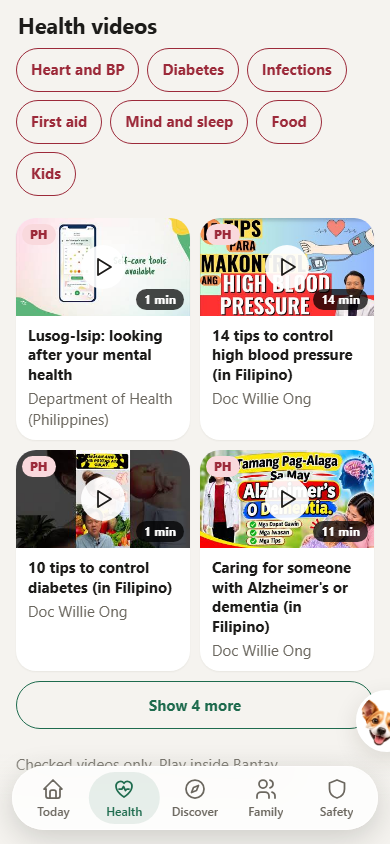
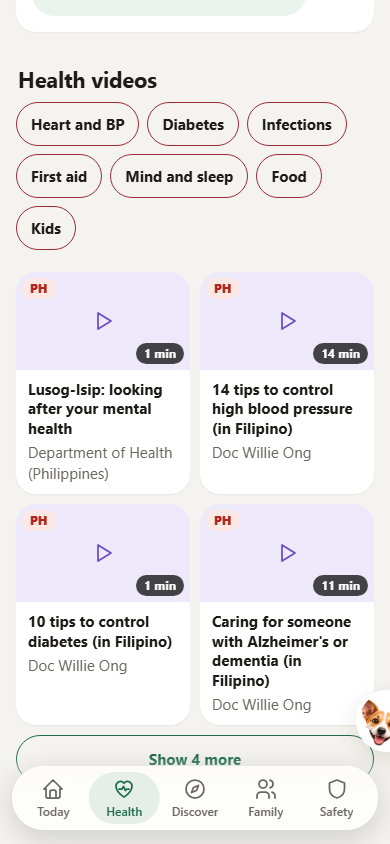
S25 lane B fix round 1: chip and PH contrast in light and dark (tested), For you More scrolls to Health videos, health-only clips kept out of Discover, WHO and Filipino labels, Browse subtitle contrast, honest chip test

diff --git a/src/features/health/health.css b/src/features/health/health.css
@@ -273,7 +273,8 @@
 .card.hb[data-tint="green"] { --tint-fill: var(--tint-green); --tint-ink: var(--tint-green-ink); }
 .hb-t { display: grid; gap: 2px; }
 .hb-t b { font-size: 17px; }
-.hb-s { font-size: 13px; line-height: 1.3; opacity: .9; }
+.hb-s { font-size: 13px; line-height: 1.3; }
+.card.hb .hb-s { color: var(--tint-ink, var(--ink)); } /* tint pair tested at 4.5:1 in light and dark; no opacity dimming */
 .hb-bars rect { fill: var(--tint-ink); opacity: .45; }
 .hb-bars rect[data-hot] { opacity: 1; }
 .hb-pills { display: flex; flex-wrap: wrap; gap: 6px; }
@@ -405,8 +406,8 @@
 
 /* S25 Health videos: chips that wrap (no side scroll), then a MoreGrid of cards */
 .hv-chips { display: flex; flex-wrap: wrap; gap: 8px; margin: 0 0 12px; }
-.hv-chip { min-height: 44px; padding: 0 14px; border: 1.5px solid var(--tab-accent, #9C2A3A); border-radius: 999px; background: transparent; color: var(--tab-accent, #9C2A3A); font: inherit; font-size: 15px; font-weight: 700; cursor: pointer; }
-.hv-chip[aria-pressed="true"] { background: var(--tab-accent, #9C2A3A); color: #fff; }
+.hv-chip { min-height: 44px; padding: 0 14px; border: 1.5px solid var(--tab-accent, #9C2A3A); border-radius: 999px; background: transparent; color: var(--ink); font: inherit; font-size: 15px; font-weight: 700; cursor: pointer; }
+.hv-chip[aria-pressed="true"] { background: var(--tint-red); color: var(--tint-red-ink); } /* a tested tint pair: 4.5:1 in light and dark */
 .hv-chip:focus-visible, .hv-vbtn:focus-visible { outline: 2px solid var(--act); outline-offset: 2px; }
 .card.hv-vc { display: flex; flex-direction: column; padding: 0 0 10px; overflow: hidden; color: var(--ink); }
 .more-grid > .card.hv-vc[data-open] { grid-column: 1 / -1; }
@@ -417,6 +418,6 @@
 .hv-play { position: relative; display: grid; place-items: center; width: 44px; height: 44px; border-radius: 50%; background: rgba(255, 255, 255, .92); color: #1C1B19; }
 .hv-still[data-still="off"] .hv-play { background: none; color: inherit; }
 .hv-len { position: absolute; right: 6px; bottom: 6px; padding: 2px 8px; border-radius: 999px; background: rgba(0, 0, 0, .72); color: #fff; font-size: 12px; font-weight: 700; font-variant-numeric: tabular-nums; }
-.hv-ph { position: absolute; left: 6px; top: 6px; padding: 2px 8px; border-radius: 999px; background: var(--tab-accent-soft, #F9D9DD); color: var(--tab-accent, #9C2A3A); font-size: 12px; font-weight: 800; }
+.hv-ph { position: absolute; left: 6px; top: 6px; padding: 2px 8px; border-radius: 999px; background: var(--tint-red); color: var(--tint-red-ink); font-size: 12px; font-weight: 800; }
 .hv-vbtn b { font-size: 15px; line-height: 1.3; overflow-wrap: anywhere; }
 .hv-open { padding: 0 10px; }

diff --git a/src/features/health/ForYou.tsx b/src/features/health/ForYou.tsx
@@ -6,7 +6,8 @@ import type { Attention } from './attention'
 import { NudgeRow } from './GlanceGrid'
 import { WATCH_PICK } from '../discover/watch/Screen'
 import { articleHref } from './library/medline'
-import { playable, VIDEOS, type Video } from './library/videosLogic'
+import { prefersReducedMotion } from '../look/useReducedMotion'
+import { DISCOVER_SET, playable, type Video } from './library/videosLogic'
 import { metricLabel } from './model'
 import { useVisits } from './useVisits'
 import { nextVisitLine } from './visitsLogic'
@@ -57,14 +58,17 @@ function Clip({ video, reason, testId }: { video: Video; reason: string; testId:
   )
 }
 
+/** "More" scrolls to the Health videos section lower on this screen (id health-videos). */
+const toVideos = () => document.getElementById('health-videos')?.scrollIntoView?.({ behavior: prefersReducedMotion() ? 'auto' : 'smooth', block: 'start' })
+
 /** For you, top to bottom: today's videos (stills, two across, four then Show more), "Because of you" tied to the lead result, then the small log row. No data means no log row and no article. */
 export function ForYou({ personId, readings, attention, canLog, onAdd }: { personId: string; readings: Reading[]; attention: Attention | null; canLog: boolean; onAdd: (code: 'bp' | 'fasting_glucose') => void }) {
-  const clips = useMemo(() => forYouClips(VIDEOS.filter(playable), clipReasons(readings, attention)), [readings, attention])
+  const clips = useMemo(() => forYouClips(DISCOVER_SET.filter(playable), clipReasons(readings, attention)), [readings, attention])
   const label = attention ? metricLabel(attention.reading.test) : null
   const next = nextVisitLine(useVisits(personId))
   const visit = next?.text.startsWith('Next visit: ') ? next : null // a follow-up due is not a booked visit
   return (
-    <Section title="For you" testId="for-you" link={{ href: '#discover/watch', label: 'More' }}>
+    <Section title="For you" testId="for-you" link={{ onClick: toVideos, label: 'More' }}>
       <div className="fy-stack">
         {clips.length > 0 && <MoreGrid label="Videos for you" testId="foryou-videos">{clips.map((c, i) => <Clip key={c.video.id} video={c.video} reason={c.reason} testId={i ? `foryou-video-${i + 1}` : 'foryou-video'} />)}</MoreGrid>}
         {(label || visit) && (

diff --git a/src/features/health/HealthVideos.test.tsx b/src/features/health/HealthVideos.test.tsx
@@ -1,7 +1,8 @@
 import { cleanup, fireEvent, render, screen, within } from '@testing-library/react'
 import { afterEach, describe, expect, it } from 'vitest'
 import { HealthVideos } from './HealthVideos'
-import { forSub, SUBS } from './library/videosLogic'
+import css from './health.css?raw'
+import { DISCOVER_SET, forSub, SUBS, VIDEOS } from './library/videosLogic'
 
 afterEach(cleanup)
 const cards = () => Array.from(screen.getByTestId('hv-grid').querySelectorAll('[data-testid^="hv-"]'))
@@ -53,9 +54,20 @@ describe('Health videos (S25)', () => {
     fireEvent.click(cards()[1]!.querySelector('button.hv-vbtn')!)
     expect(screen.getByTestId(first.getAttribute('data-testid')!).hasAttribute('data-open')).toBe(false) // the first folds back to its still
   })
-  it('chips are 44 px tall targets that wrap, and every chip has a video', () => {
+  it('every chip has a video; the stylesheet gives chips a 44 px height and lets the row wrap with no side scroll', () => {
     render(<HealthVideos />)
     expect(SUBS.every((s) => forSub(s.sub).length > 0)).toBe(true)
-    expect(screen.getByRole('group', { name: 'Video topic' }).className).toBe('hv-chips')
+    expect(screen.getByRole('group', { name: 'Video topic' }).className).toBe('hv-chips') // jsdom has no layout, so the rules are read from the CSS text
+    const rule = (sel: string) => css.split('\n').find((l) => l.startsWith(sel + ' {'))!
+    expect(rule('.hv-chips')).toContain('flex-wrap: wrap')
+    expect(rule('.hv-chips')).not.toMatch(/overflow-x/)
+    expect(rule('.hv-chip')).toContain('min-height: 44px')
+  })
+  it('the section has the id the For you "More" link scrolls to, and no S25 health-only clip is in the Discover set', () => {
+    render(<HealthVideos />)
+    expect(document.getElementById('health-videos')).not.toBeNull()
+    expect(VIDEOS.filter((v) => v.healthOnly)).toHaveLength(18)
+    expect(DISCOVER_SET).toHaveLength(27)
+    expect(DISCOVER_SET.some((v) => v.healthOnly)).toBe(false)
   })
 })

diff --git a/src/features/health/healthVideos.contrast.test.ts b/src/features/health/healthVideos.contrast.test.ts
@@ -1,0 +1,21 @@
+import { describe, expect, it } from 'vitest'
+import css from './health.css?raw'
+import { pair, tokensOf } from '../look/contrastMath'
+
+const TINTS = ['blue', 'red', 'amber', 'teal', 'purple', 'green'] as const
+const rule = (sel: string) => css.split('\n').find((l) => l.startsWith(sel + ' {'))!
+
+describe('S25 Health videos and Browse contrast, light and dark', () => {
+  it('the CSS uses the tested pairs (no white text on the tab accent)', () => {
+    expect(rule('.hv-chip[aria-pressed="true"]')).toContain('background: var(--tint-red); color: var(--tint-red-ink)')
+    expect(rule('.hv-ph')).toContain('background: var(--tint-red); color: var(--tint-red-ink)')
+    expect(rule('.hv-chip')).toContain('color: var(--ink)')
+    expect(rule('.card.hb .hb-s')).toContain('color: var(--tint-ink')
+  })
+  for (const theme of ['light', 'dark'] as const) {
+    const t = tokensOf(theme)
+    it(`${theme}: chip pressed and PH flag (--tint-red-ink on --tint-red) >= 4.5`, () => expect(pair(t, '--tint-red-ink', '--tint-red')).toBeGreaterThanOrEqual(4.5))
+    it(`${theme}: chip text --ink on --card and --ground >= 4.5`, () => { for (const bg of ['--card', '--ground']) expect(pair(t, '--ink', bg)).toBeGreaterThanOrEqual(4.5) })
+    for (const x of TINTS) it(`${theme}: Browse subtitle --tint-${x}-ink on --tint-${x} >= 4.5`, () => expect(pair(t, `--tint-${x}-ink`, `--tint-${x}`)).toBeGreaterThanOrEqual(4.5))
+  }
+})

diff --git a/src/features/discover/learn/ready.ts b/src/features/discover/learn/ready.ts
@@ -1,5 +1,5 @@
 import data from '../../../data/discover/ready.json'
-import { playable, VIDEOS, type Video } from '../../health/library/videosLogic'
+import { DISCOVER_SET, playable, type Video } from '../../health/library/videosLogic'
 
 /** D-117 shelf (src/data/discover/ready.json): prepping, farming and DIY, listening and recipe videos, checked links only. Kept out of VIDEOS so Today and Health stay health-only. */
 export interface Read { id: string; topic: string; title: string; source: string; url: string; checked: string }
@@ -9,7 +9,7 @@ export const READY_TOPICS = data.topics.filter((t) => t.id === 'prepping' || t.i
 export const READY_VIDEOS = data.videos as Video[]
 export const READY_READS = data.reads as Read[]
 /** The health list plus the D-117 videos: what Discover's hero, video cards and Watch draw from. */
-export const DISCOVER_VIDEOS: Video[] = [...VIDEOS, ...READY_VIDEOS]
+export const DISCOVER_VIDEOS: Video[] = [...DISCOVER_SET, ...READY_VIDEOS]
 export const topicCounts = (t: (typeof data.topics)[number]) => ({ videos: READY_VIDEOS.filter((v) => v.topic === t.video).length, reads: READY_READS.filter((r) => r.topic === t.id).length })
 export const countLine = (t: (typeof data.topics)[number]) => { const c = topicCounts(t); return `${c.videos} videos · ${c.reads} reads` }
 /** The checked videos of one ready.json shelf (by shelf id), through playable() like everywhere else they are shown. */

diff --git a/src/features/health/library/videosLogic.ts b/src/features/health/library/videosLogic.ts
@@ -2,9 +2,11 @@ import data from '../../../data/videos.json'
 
 /** Health videos chip (S25): null means the clip belongs to Move or Watch only. */
 export type VideoSub = 'heart-bp' | 'diabetes' | 'infections' | 'firstaid' | 'mind-sleep' | 'food' | 'kids'
-/** The fixed playlist (src/data/videos.json). No search, no feed: only these. A placeholder entry never loads a player. minutes is null when not recorded. ph marks a Philippine source. */
-export interface Video { id: string; placeholder: boolean; title: string; topic: string; source: string; minutes: number | null; sub: VideoSub | null; ph?: boolean }
+/** The fixed playlist (src/data/videos.json). No search, no feed: only these. A placeholder entry never loads a player. minutes is null when not recorded. ph marks a Philippine source; healthOnly keeps it out of Discover. */
+export interface Video { id: string; placeholder: boolean; title: string; topic: string; source: string; minutes: number | null; sub: VideoSub | null; ph?: boolean; healthOnly?: boolean }
 export const VIDEOS = data.videos as Video[]
+/** The clips Discover may show: S25 health clips (healthOnly) live on Health > Health videos only. */
+export const DISCOVER_SET = VIDEOS.filter((v) => !v.healthOnly)
 export const TOPICS = ['All', ...new Set(VIDEOS.map((v) => v.topic))]
 export const VIDEO_ID = /^[A-Za-z0-9_-]{11}$/
 export const SUBS: { sub: VideoSub; label: string }[] = [

diff --git a/src/features/discover/Overview.tsx b/src/features/discover/Overview.tsx
@@ -14,7 +14,7 @@ import { useNewsZone } from './news/Screen'
 import Saved from './Saved'
 import { DiscoverTabs, panelId, tabId, type View } from './Tabs'
 import { WATCH_PICK } from './watch/Screen'
-import { playable, VIDEOS, type Video } from '../health/library/videosLogic'
+import { DISCOVER_SET, playable, type Video } from '../health/library/videosLogic'
 import { READY_TOPICS, countLine, readyShelf as shelf } from './learn/ready'
 import './play/play.css' // the fp-hl headline markup is the News screen's own
 import './discover.css'
@@ -184,7 +184,7 @@ function Today({ now }: { now: Date }) {
     <>
       <Learn />
       <TopStory now={now} />
-      <VideoShelf title="Health videos" link={{ href: '#discover/watch', label: 'All' }} testId="dc-health" videos={[...VIDEOS].reverse().filter(playable)} tint="purple" />
+      <VideoShelf title="Health videos" link={{ href: '#discover/watch', label: 'All' }} testId="dc-health" videos={[...DISCOVER_SET].reverse().filter(playable)} tint="purple" />
       <VideoShelf title="Farming and DIY" link={{ href: '#discover/learn/farm-diy', label: 'All' }} testId="dc-farm" videos={shelf('farm-diy')} tint="green" />
       <Listen />
       <Recipes now={now} />

diff --git a/src/features/health/ForYou.test.tsx b/src/features/health/ForYou.test.tsx
@@ -1,6 +1,6 @@
 import 'fake-indexeddb/auto'
 import { cleanup, fireEvent, render, screen, waitFor, within } from '@testing-library/react'
-import { afterEach, describe, expect, it } from 'vitest'
+import { afterEach, describe, expect, it, vi } from 'vitest'
 import { db } from '../../db'
 import { vdb } from './visitsStore'
 import { clipReasons, ForYou, forYouClips, MAX_CLIPS } from './ForYou'
@@ -126,7 +126,11 @@ describe('For you hands the video to Watch', () => {
     expect(sessionStorage.getItem('dc.watch')).toBeNull()
     fireEvent.click(card)
     expect(sessionStorage.getItem('dc.watch')).toBe(id)
-    const more = within(screen.getByTestId('for-you')).getByRole('link', { name: 'More' })
-    expect(more.getAttribute('href')).toBe('#discover/watch')
+    const more = within(screen.getByTestId('for-you')).getByRole('button', { name: 'More' })
+    const target = document.createElement('section'); target.id = 'health-videos'
+    const scroll = vi.fn(); target.scrollIntoView = scroll; document.body.appendChild(target)
+    fireEvent.click(more)
+    expect(scroll).toHaveBeenCalledTimes(1) // More goes to the Health videos section, not to Discover
+    target.remove()
   })
 })

diff --git a/src/features/health/HealthVideos.tsx b/src/features/health/HealthVideos.tsx
@@ -41,7 +41,7 @@ export function HealthVideos() {
   const list = forSub(sub)
   const chips = SUBS.filter((s) => forSub(s.sub).length > 0)
   return (
-    <Section title="Health videos" testId="health-videos">
+    <Section title="Health videos" testId="health-videos" id="health-videos">
       <div className="hv-chips" role="group" aria-label="Video topic">
         {chips.map((c) => <button key={c.sub} type="button" className="hv-chip" aria-pressed={sub === c.sub} onClick={() => { setSub(sub === c.sub ? null : c.sub); setOpenId(null) }}>{c.label}</button>)}
       </div>

diff --git a/src/features/health/library/videosLogic.test.ts b/src/features/health/library/videosLogic.test.ts
@@ -17,7 +17,7 @@ describe('videos playlist', () => {
     expect(VIDEOS.every(playable)).toBe(true)
     expect(videosAvailable()).toBe(true)
     expect(VIDEOS.every((v) => Number.isInteger(v.minutes) && v.minutes! > 0)).toBe(true)
-    expect(forTopic('Safety').length).toBe(26)
+    expect(forTopic('Safety').length).toBe(13) // 12 of the first 27 plus the CPR clip; the other 17 S25 clips are topic Health
   })
   it('topics filter the list', () => {
     expect(TOPICS[0]).toBe('All')
